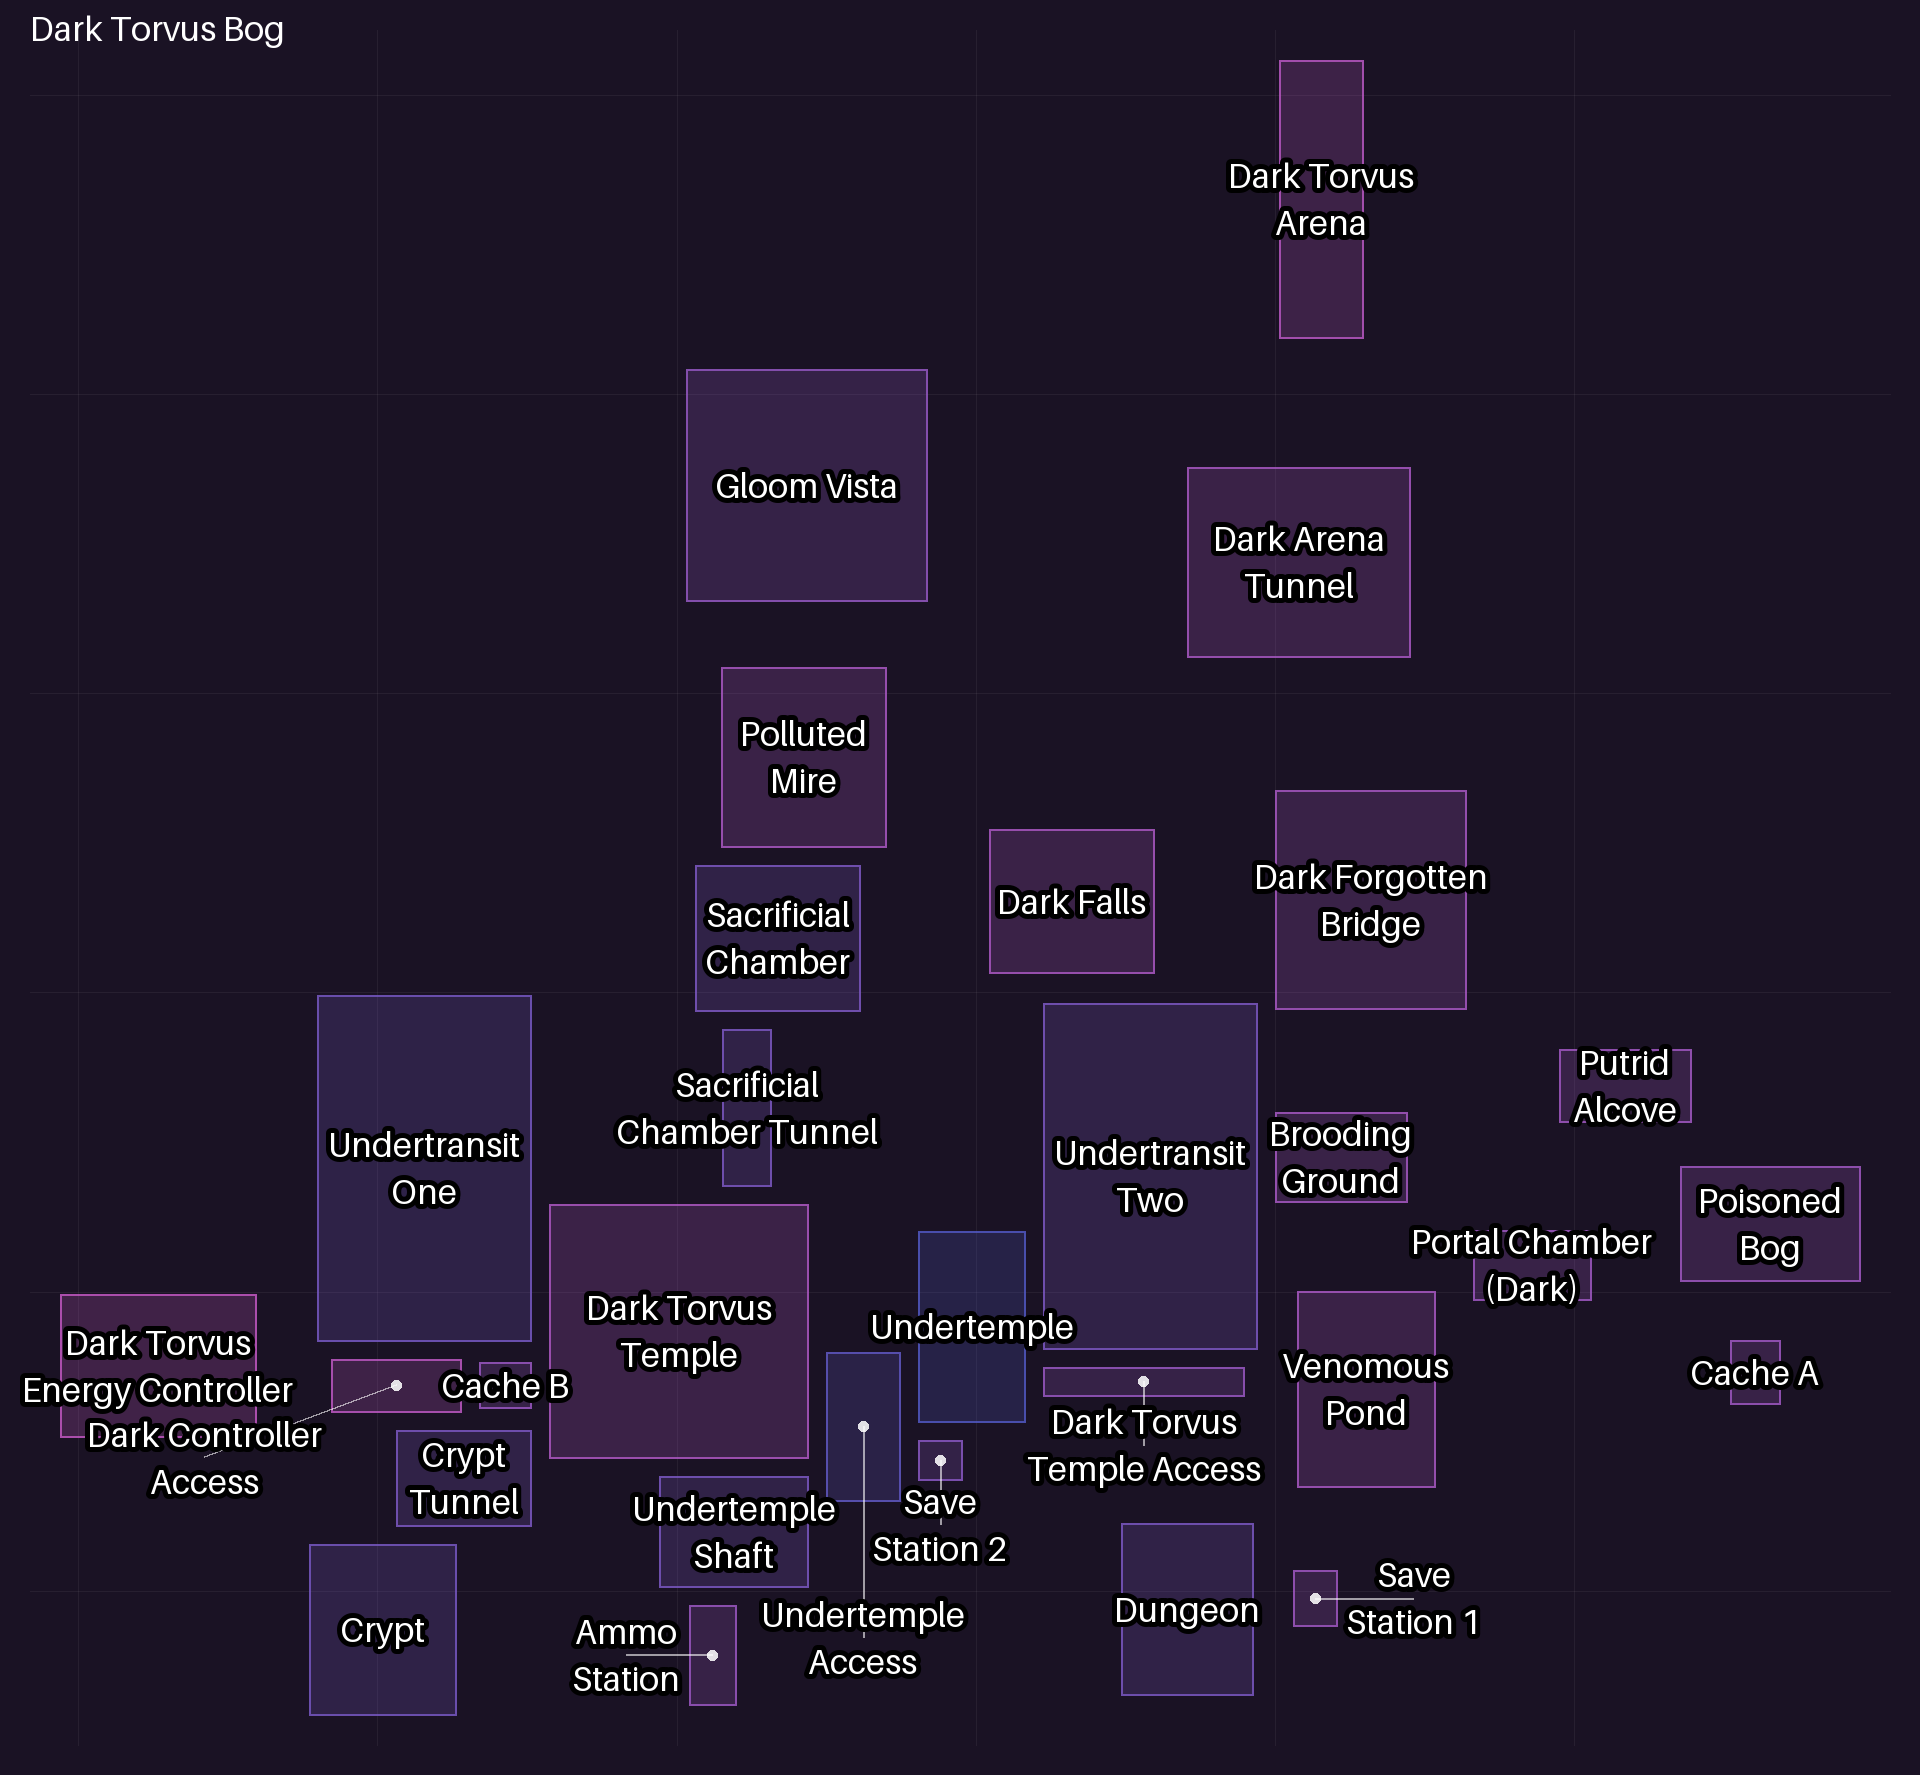
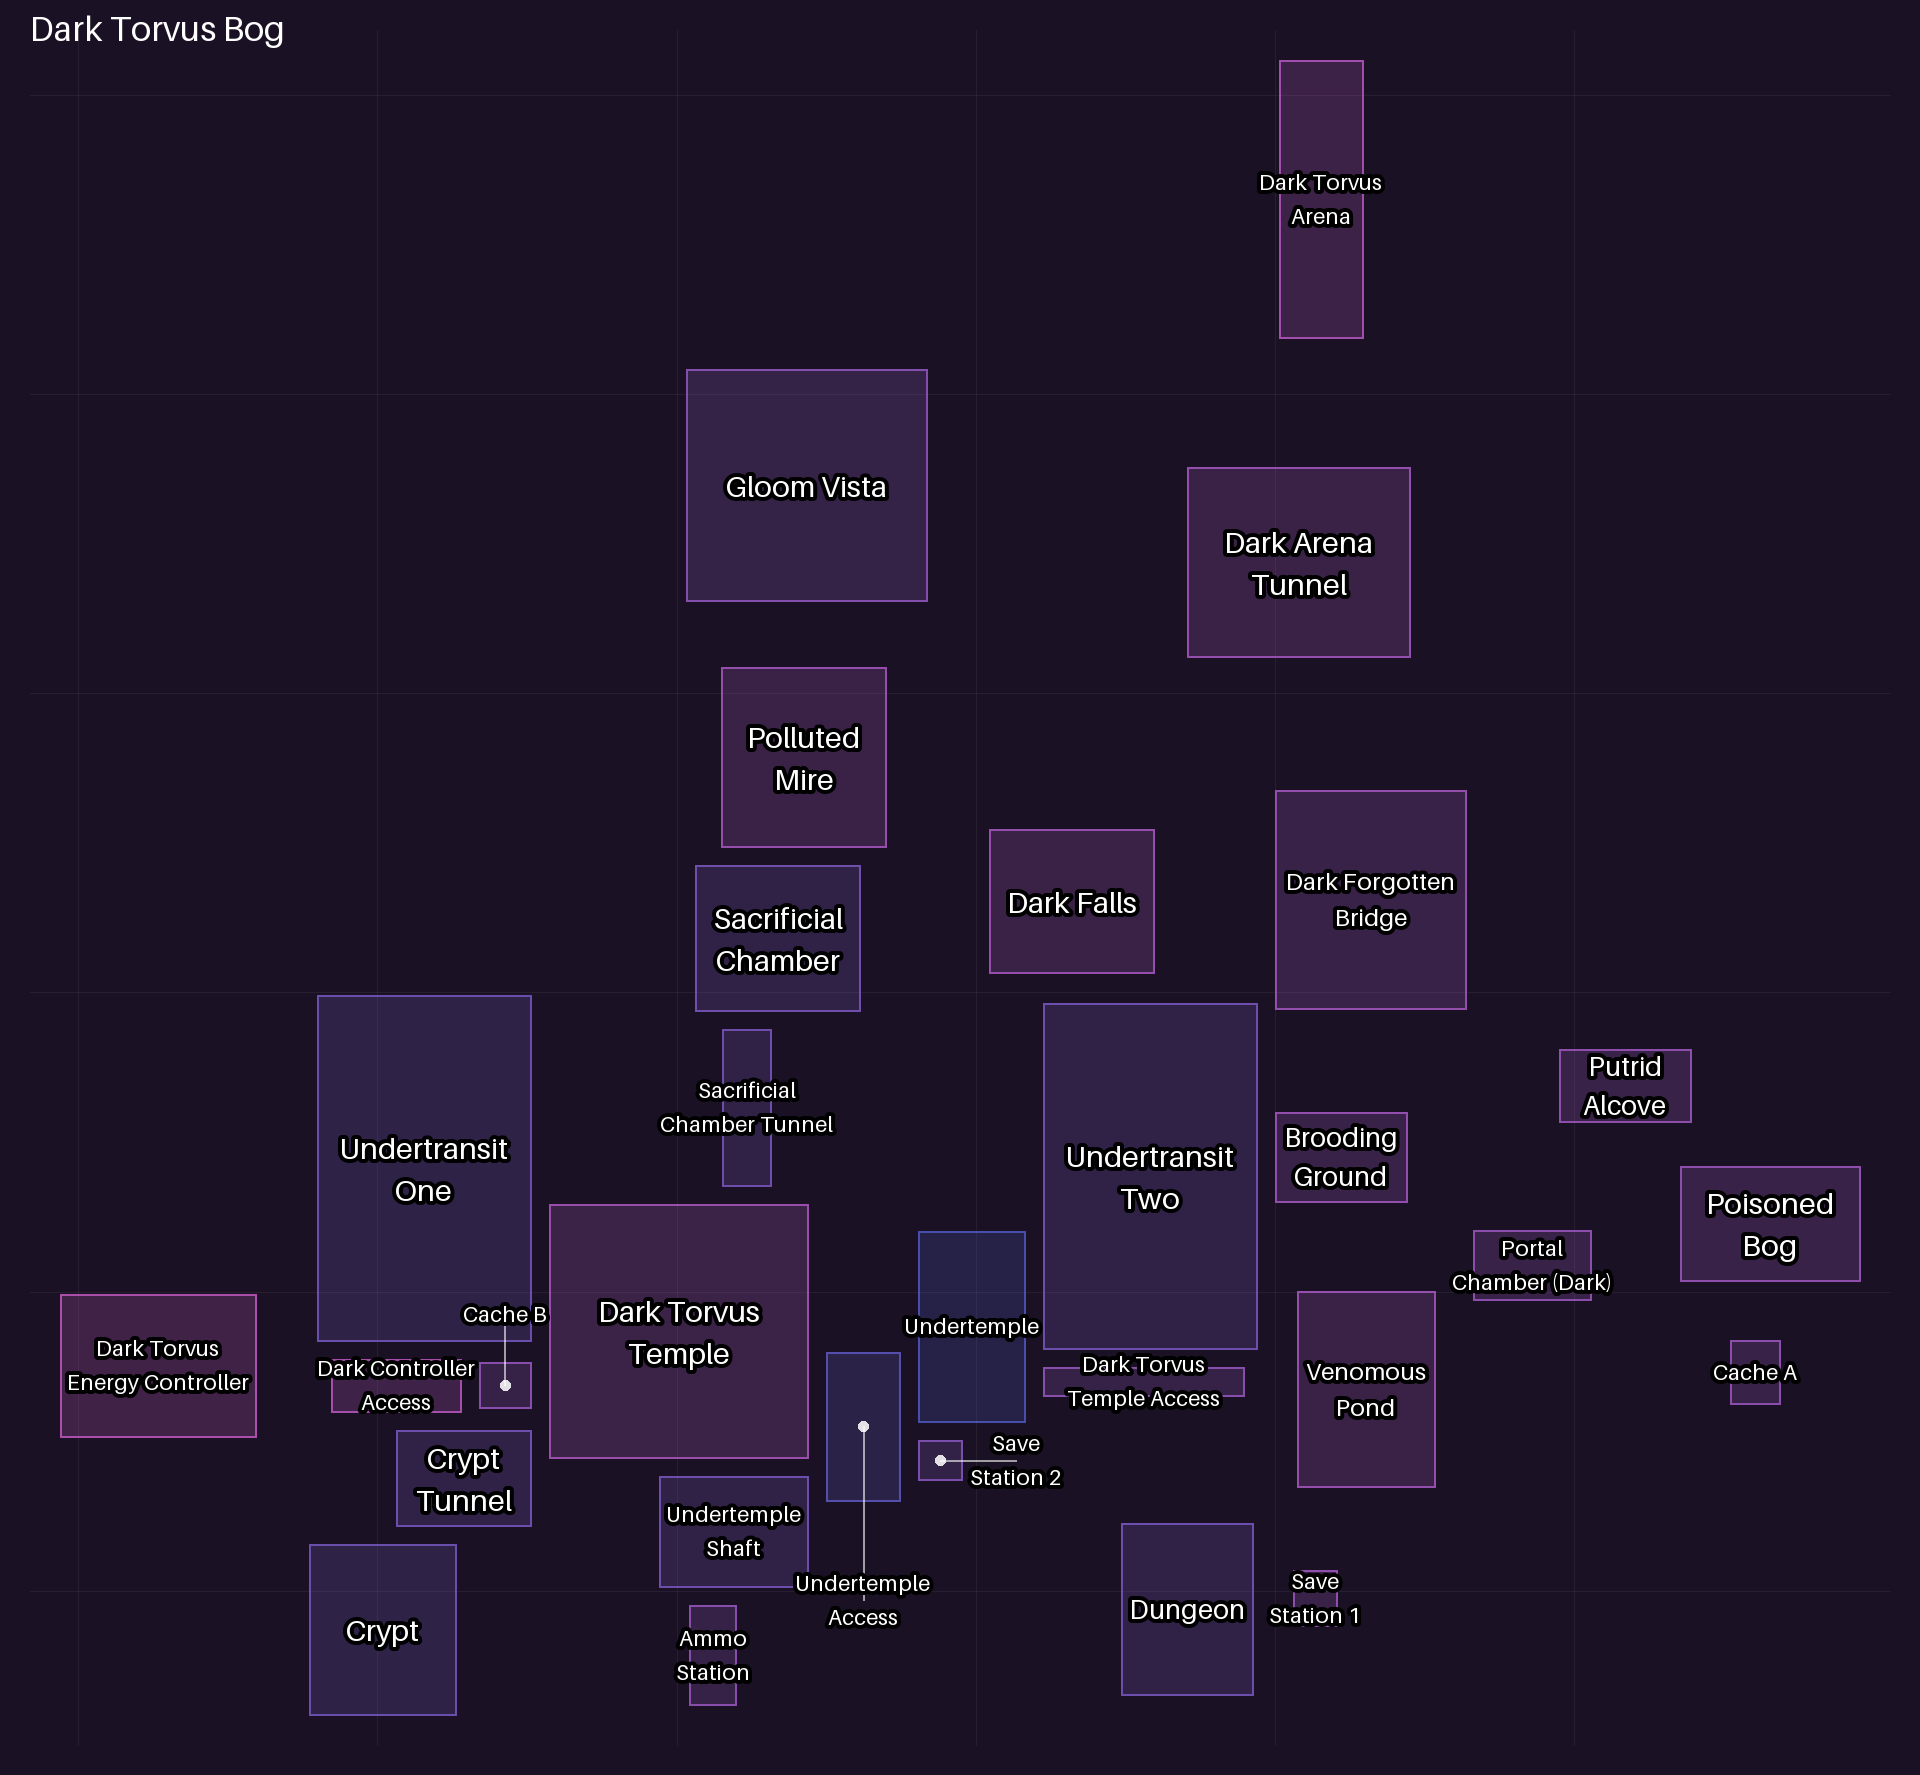
more map fixes

diff --git a/metroidprime2/tools/make_tracker_map.py b/metroidprime2/tools/make_tracker_map.py
@@ -52,8 +52,13 @@ PADDING = 60
 ROOM_SHRINK = 0.6
 ROOM_MIN_HALF = 5.0
 ROOM_GAP = 6.0
-LABEL_FONT_SIZE = 34
-LABEL_STROKE = 5
+# A label goes inside its room at the largest of these sizes that fits;
+# a room too small for even the last one gets a LABEL_FONT_SIZE_OUTSIDE label
+# beside it instead. Small outside labels are what keep dense maps readable:
+# one big size made every cramped room's label collide with its neighbours'.
+LABEL_FONT_SIZES_INSIDE = (30, 27, 24)
+LABEL_FONT_SIZE_OUTSIDE = 22
+LABEL_STROKE = 4
 LOCATION_SIZE = 26
 LOCATION_BORDER = 3
 
@@ -205,7 +210,7 @@ def _balanced_label(draw: ImageDraw.ImageDraw, text: str, font: ImageFont.FreeTy
     """One line if the name is short, otherwise split into two lines of as
     even a width as possible."""
     words = text.split()
-    if len(words) < 2 or draw.textlength(text, font=font) <= 200:
+    if len(words) < 2 or draw.textlength(text, font=font) <= 5.8 * font.size:
         return text
     candidates = [" ".join(words[:i]) + "\n" + " ".join(words[i:]) for i in range(1, len(words))]
     return min(candidates, key=lambda c: max(draw.textlength(line, font=font) for line in c.split("\n")))
@@ -214,15 +219,16 @@ def _balanced_label(draw: ImageDraw.ImageDraw, text: str, font: ImageFont.FreeTy
 def _place_labels(
     draw: ImageDraw.ImageDraw,
     rooms: list[tuple[str, tuple[int, int, int, int]]],
-    font: ImageFont.FreeTypeFont,
+    fonts: dict[int, ImageFont.FreeTypeFont],
     image_size: tuple[int, int],
-) -> list[tuple[str, str, tuple[float, float]]]:
-    """Picks a label position per room (centered in the room if it fits
-    without touching another label, otherwise just outside one of its
-    sides), largest rooms first so they keep the center spots. A label that
-    would run off the image (and be clipped) is the costliest of all."""
+) -> list[tuple[str, str, tuple[float, float], int]]:
+    """Picks a label (text, position, font size) per room, largest rooms
+    first so they keep the center spots: inside the room at the largest size
+    in ``LABEL_FONT_SIZES_INSIDE`` that fits without touching another label,
+    otherwise small and just outside one of its sides. A label that would
+    run off the image (and be clipped) is the costliest of all."""
     placed: list[tuple[float, float, float, float]] = []
-    result: list[tuple[str, str, tuple[float, float]]] = []
+    result: list[tuple[str, str, tuple[float, float], int]] = []
 
     def overlap(box: tuple[float, float, float, float], others: Iterable[tuple[float, ...]]) -> float:
         total = 0.0
@@ -233,42 +239,58 @@ def _place_labels(
                 total += w * h
         return total
 
+    def measure(name: str, size: int) -> tuple[str, float, float]:
+        label = _balanced_label(draw, name, fonts[size])
+        left, top, right, bottom = draw.multiline_textbbox((0, 0), label, font=fonts[size], stroke_width=LABEL_STROKE)
+        return label, right - left + 4, bottom - top + 4
+
     boxes = {name: box for name, box in rooms}
     for name, (x0, y0, x1, y1) in sorted(rooms, key=lambda r: -(r[1][2] - r[1][0]) * (r[1][3] - r[1][1])):
-        label = _balanced_label(draw, name, font)
-        left, top, right, bottom = draw.multiline_textbbox((0, 0), label, font=font, stroke_width=LABEL_STROKE)
-        w, h = right - left + 4, bottom - top + 4
         cx, cy = (x0 + x1) / 2, (y0 + y1) / 2
-        candidates = [(cx, cy)]
-        # Rings of positions around the room, nearest first (min() keeps the
-        # first of equally good candidates, so near spots win ties).
-        for ring in range(3):
-            gap = 2 + ring * (h + 4)
-            ex, ey = (x1 - x0) / 2 + w / 2 + gap, (y1 - y0) / 2 + h / 2 + gap
-            candidates += [
-                (cx, cy - ey),
-                (cx, cy + ey),
-                (cx + ex, cy),
-                (cx - ex, cy),
-                (cx + ex, cy - ey),
-                (cx - ex, cy - ey),
-                (cx + ex, cy + ey),
-                (cx - ex, cy + ey),
-            ]
-        foreign = [box for other, box in boxes.items() if other != name]
 
-        def cost(c: tuple[float, float]) -> float:
-            box = (c[0] - w / 2, c[1] - h / 2, c[0] + w / 2, c[1] + h / 2)
-            # Colliding with another label is worst; sitting on another room
-            # makes the label look like that room's, so it costs too; and
-            # the farther from its own room, the less obviously its own.
-            distance = abs(c[0] - cx) + abs(c[1] - cy)
-            clipped = w * h - overlap(box, [(0, 0, *image_size)])
-            return 100 * clipped + 20 * overlap(box, placed) + overlap(box, foreign) + 8 * distance
+        chosen: tuple[str, tuple[float, float], int, float, float] | None = None
+        for size in LABEL_FONT_SIZES_INSIDE:
+            label, w, h = measure(name, size)
+            box = (cx - w / 2, cy - h / 2, cx + w / 2, cy + h / 2)
+            if w <= x1 - x0 and h <= y1 - y0 and not overlap(box, placed):
+                chosen = (label, (cx, cy), size, w, h)
+                break
 
-        best = min(candidates, key=cost)
-        placed.append((best[0] - w / 2, best[1] - h / 2, best[0] + w / 2, best[1] + h / 2))
-        result.append((name, label, best))
+        if chosen is None:
+            label, w, h = measure(name, LABEL_FONT_SIZE_OUTSIDE)
+            candidates = [(cx, cy)]
+            # Rings of positions around the room, nearest first (min() keeps
+            # the first of equally good candidates, so near spots win ties).
+            for ring in range(3):
+                gap = 2 + ring * (h + 4)
+                ex, ey = (x1 - x0) / 2 + w / 2 + gap, (y1 - y0) / 2 + h / 2 + gap
+                candidates += [
+                    (cx, cy - ey),
+                    (cx, cy + ey),
+                    (cx + ex, cy),
+                    (cx - ex, cy),
+                    (cx + ex, cy - ey),
+                    (cx - ex, cy - ey),
+                    (cx + ex, cy + ey),
+                    (cx - ex, cy + ey),
+                ]
+            foreign = [box for other, box in boxes.items() if other != name]
+
+            def cost(c: tuple[float, float], w: float = w, h: float = h) -> float:
+                box = (c[0] - w / 2, c[1] - h / 2, c[0] + w / 2, c[1] + h / 2)
+                # Colliding with another label is worst; sitting on another
+                # room makes the label look like that room's, so it costs
+                # too; and the farther from its own room, the less obviously
+                # its own.
+                distance = abs(c[0] - cx) + abs(c[1] - cy)
+                clipped = w * h - overlap(box, [(0, 0, *image_size)])
+                return 100 * clipped + 20 * overlap(box, placed) + overlap(box, foreign) + 8 * distance
+
+            chosen = (label, min(candidates, key=cost), LABEL_FONT_SIZE_OUTSIDE, w, h)
+
+        label, position, size, w, h = chosen
+        placed.append((position[0] - w / 2, position[1] - h / 2, position[0] + w / 2, position[1] + h / 2))
+        result.append((name, label, position, size))
     return result
 
 
@@ -278,7 +300,9 @@ def draw_map(region: str, areas: dict[str, dict], projection: Projection) -> Ima
     image = Image.new("RGB", (projection.width, projection.height), (26, 18, 36) if dark else (18, 22, 30))
     draw = ImageDraw.Draw(image, "RGBA")
     title_font = ImageFont.load_default(size=34)
-    label_font = ImageFont.load_default(size=LABEL_FONT_SIZE)
+    label_fonts = {
+        size: ImageFont.load_default(size=size) for size in (*LABEL_FONT_SIZES_INSIDE, LABEL_FONT_SIZE_OUTSIDE)
+    }
 
     grid = 100
     x = (projection.min_x // grid + 1) * grid
@@ -308,19 +332,19 @@ def draw_map(region: str, areas: dict[str, dict], projection: Projection) -> Ima
     # Labels go in a pass of their own, on top of every room and outlined, so
     # a neighbour's fill can never hide one. A label that had to leave its
     # room is tied back to it with a leader line (drawn first, under all text).
-    placed = _place_labels(draw, rooms, label_font, image.size)
+    placed = _place_labels(draw, rooms, label_fonts, image.size)
     room_boxes = dict(rooms)
-    for name, _, position in placed:
+    for name, _, position, _ in placed:
         x0, y0, x1, y1 = room_boxes[name]
         if not (x0 <= position[0] <= x1 and y0 <= position[1] <= y1):
             center = ((x0 + x1) / 2, (y0 + y1) / 2)
             draw.line([center, position], fill=(255, 255, 255, 150), width=2)
             draw.ellipse((center[0] - 5, center[1] - 5, center[0] + 5, center[1] + 5), fill=(255, 255, 255, 220))
-    for _, label, position in placed:
+    for _, label, position, size in placed:
         draw.multiline_text(
             position,
             label,
-            font=label_font,
+            font=label_fonts[size],
             fill=(255, 255, 255, 255),
             stroke_width=LABEL_STROKE,
             stroke_fill=(0, 0, 0, 235),
